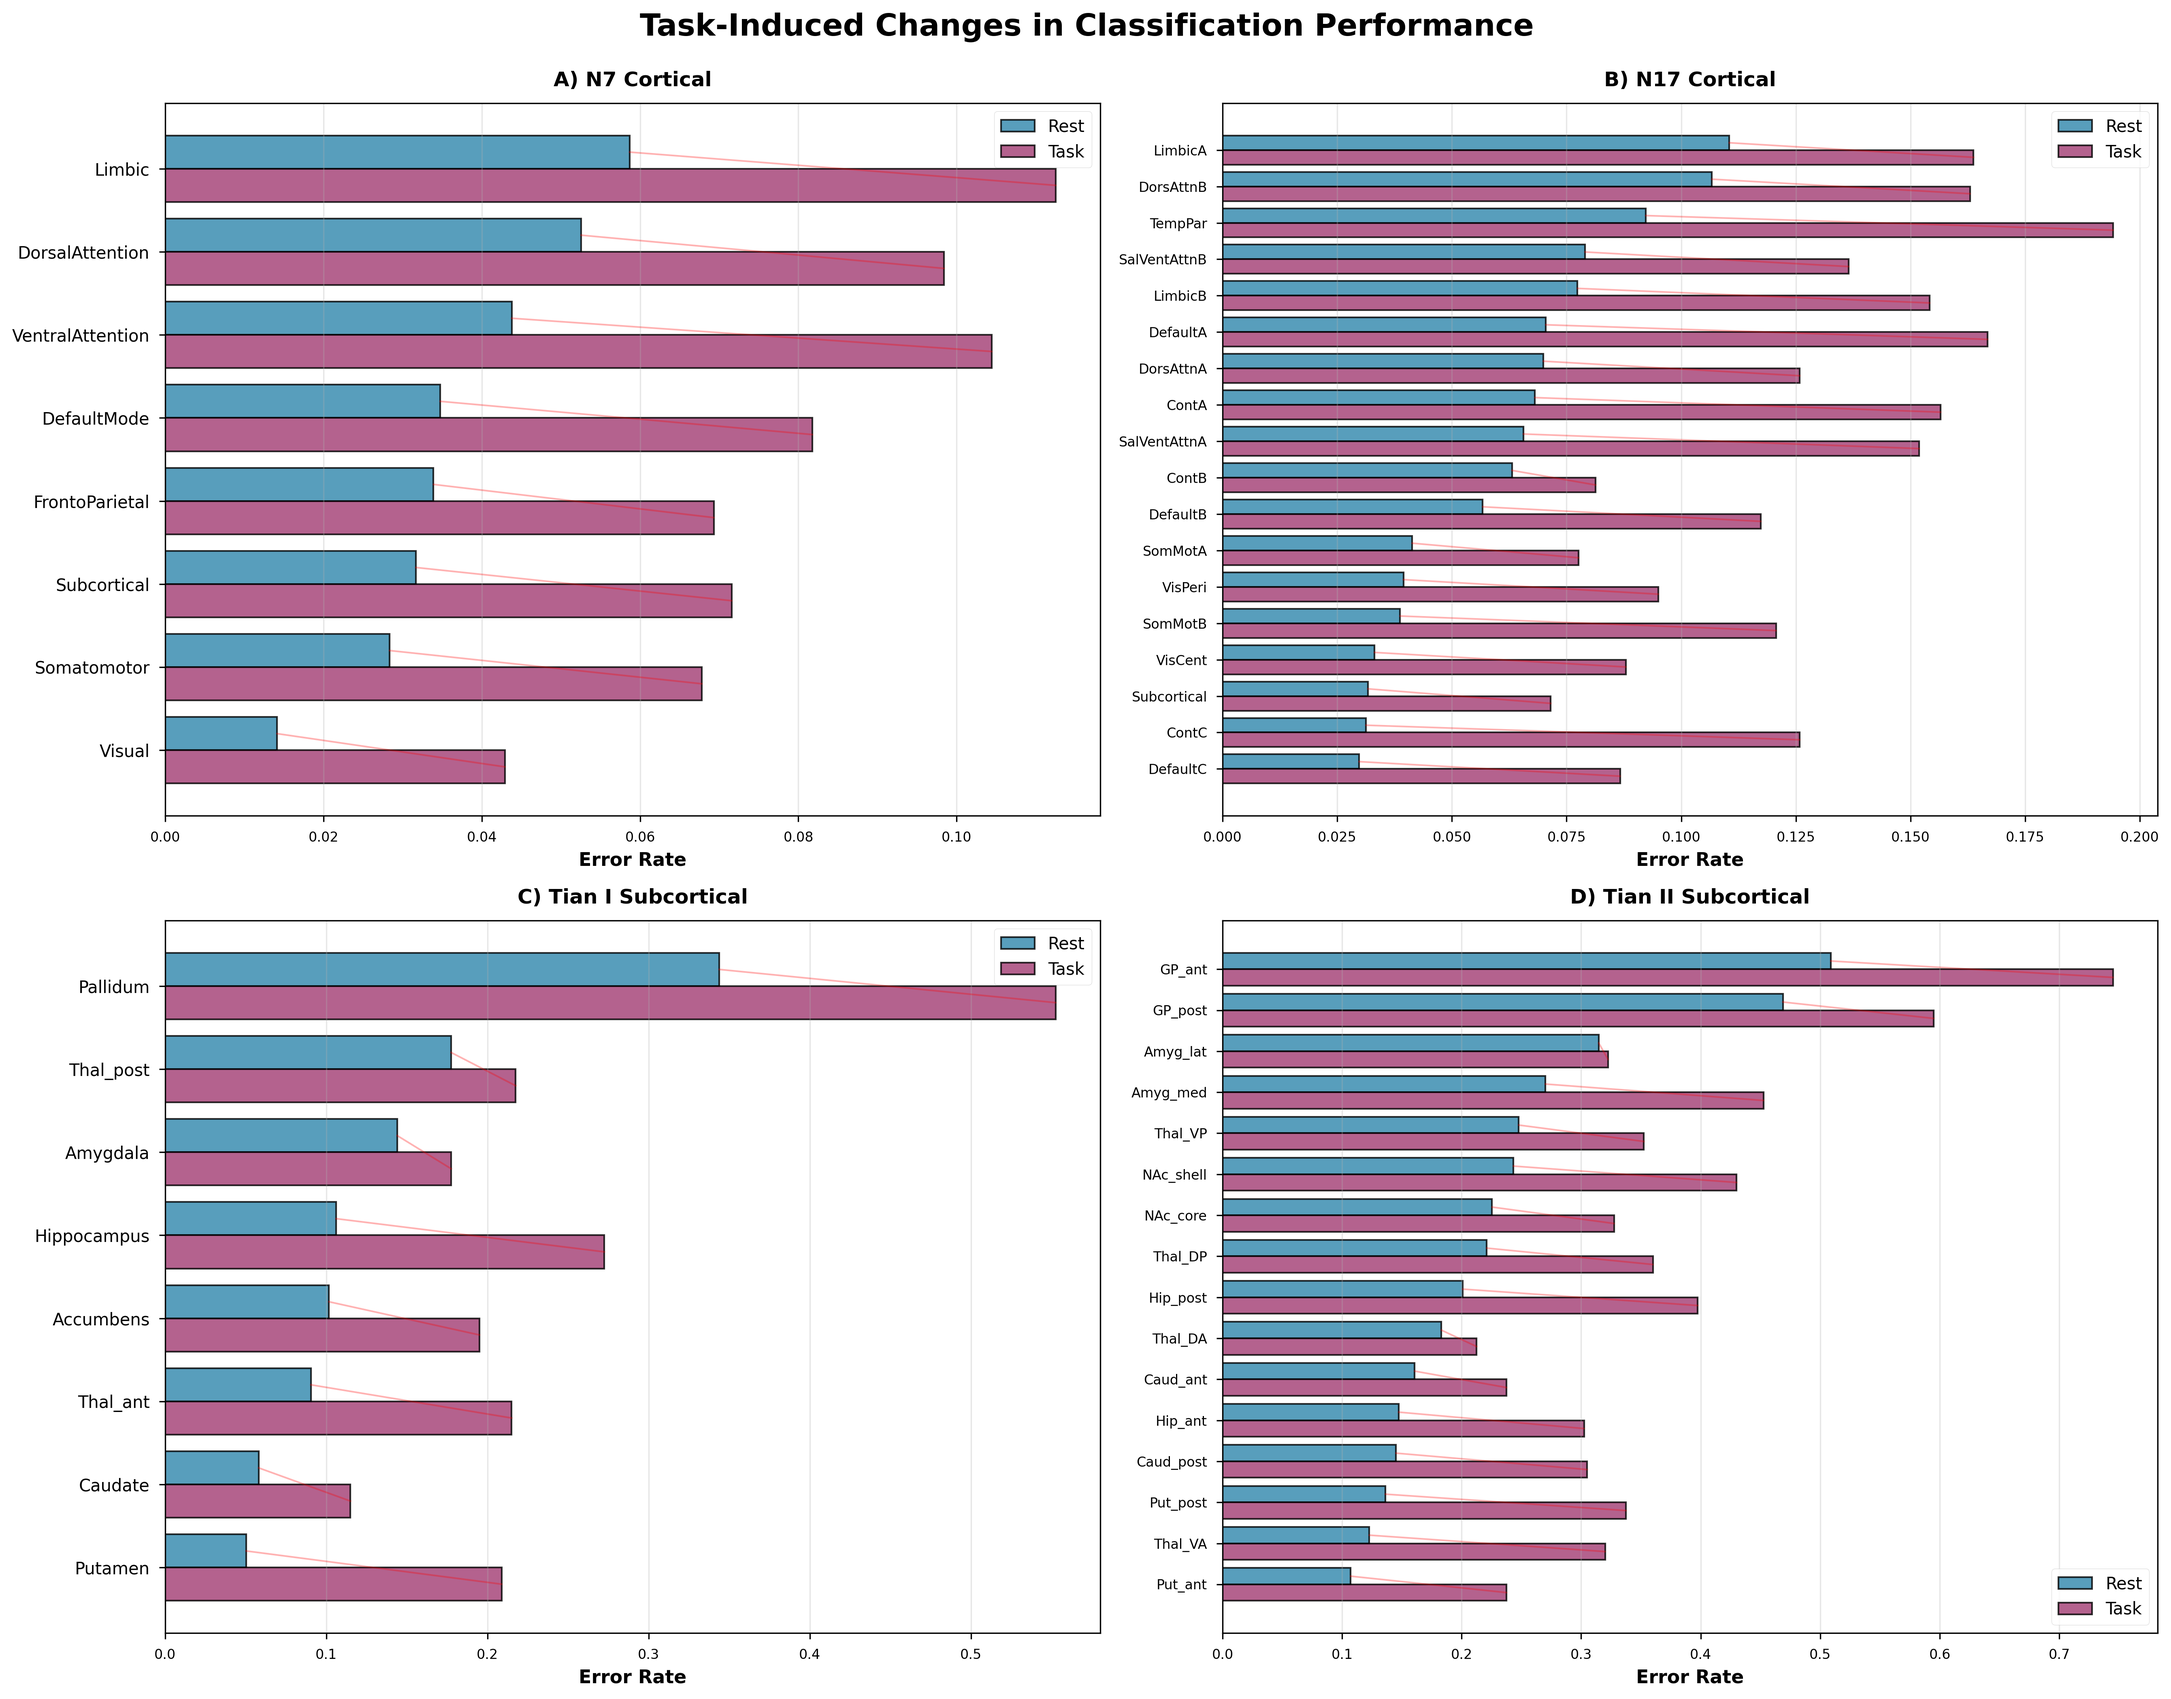
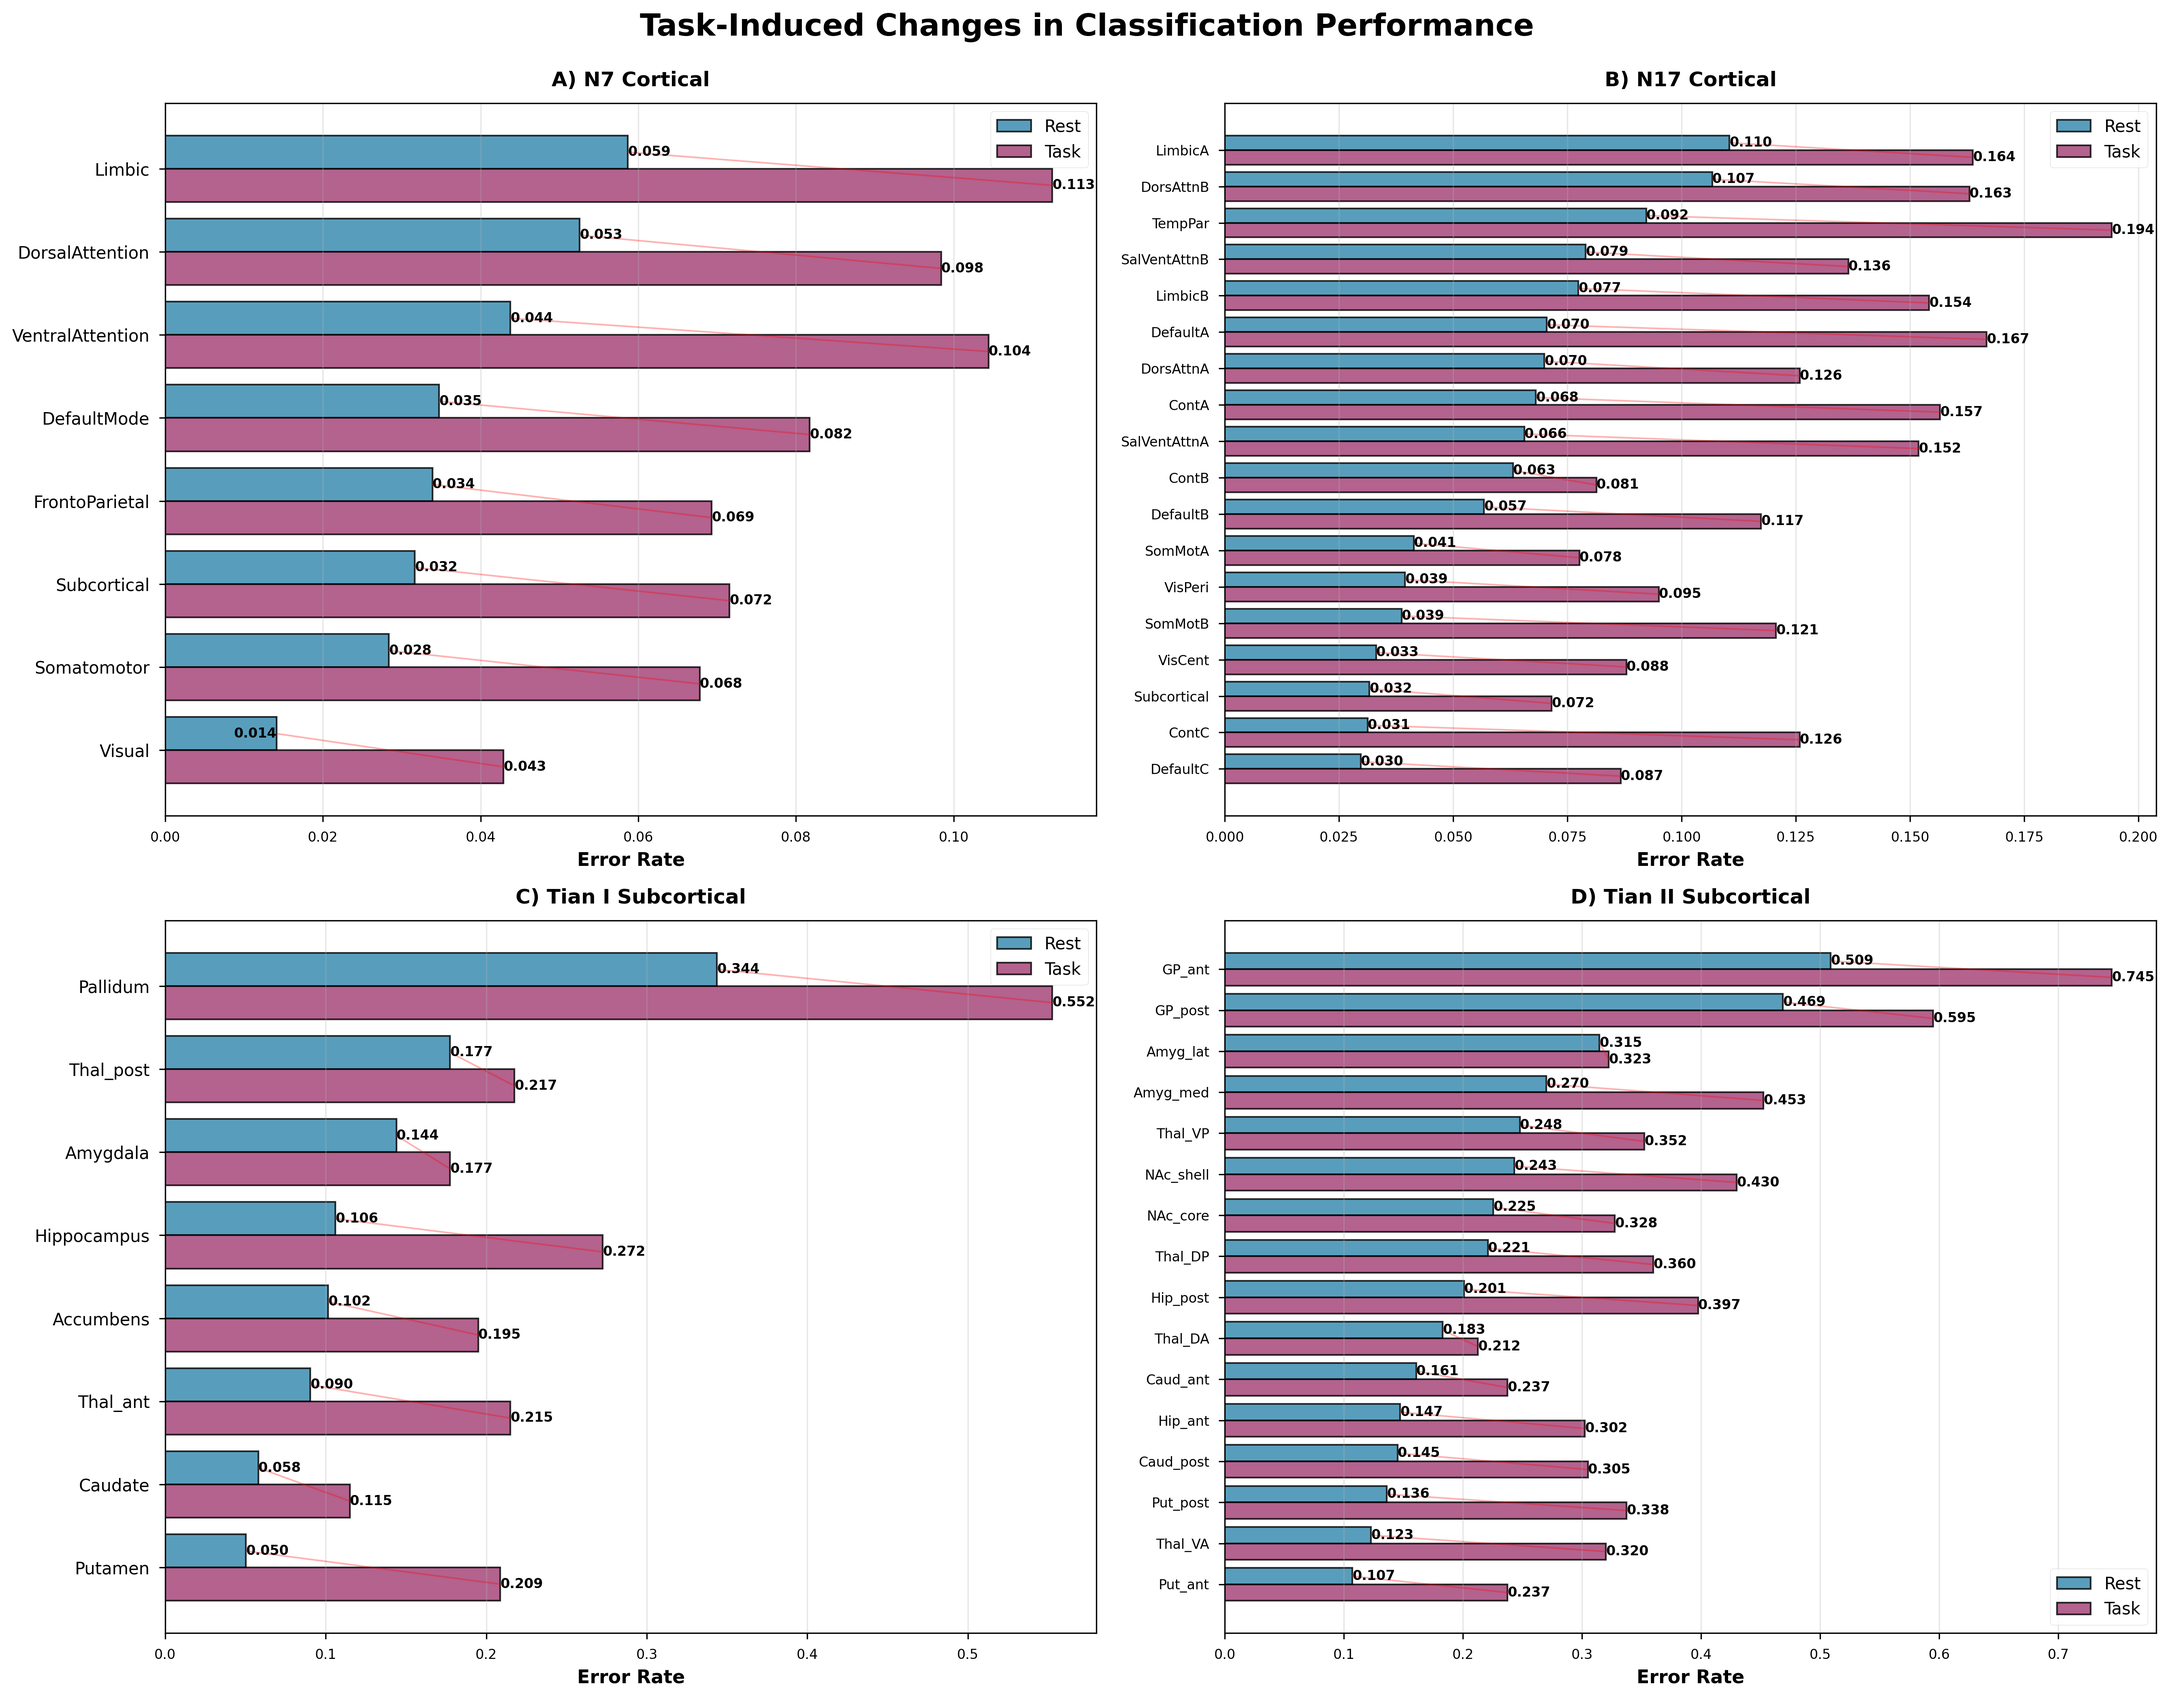
viz- atlas comparison fig4 annotated

diff --git a/AdvanceAnalysis/02_atlas_comparison.py b/AdvanceAnalysis/02_atlas_comparison.py
@@ -1,7 +1,6 @@
 #!/usr/bin/env python3
 """
-Atlas Comparison Analysis - Ultra Clean Graphs
-Graphs are completely clean with no statistical annotations.
+Atlas Comparison Analysis
 All statistics are logged to console and saved in CSV tables.
 """
 
@@ -291,12 +290,11 @@ def annotate_outliers(ax, data, position, labels, n_top=3, direction='right'):
 
 
 # =============================================================================
-# FIGURE 1: RESOLUTION EFFECTS (ULTRA CLEAN)
+# FIGURE 1: RESOLUTION EFFECTS 
 # =============================================================================
 
 def plot_resolution_effects(error_data, output_path):
     """
-    Ultra clean resolution comparison - no statistical annotations on graphs.
     All statistics logged to console and saved in tables.
     """
     fig = plt.figure(figsize=(18, 12))
@@ -465,12 +463,11 @@ def plot_resolution_effects(error_data, output_path):
 
 
 # =============================================================================
-# FIGURE 2: CORTICAL VS SUBCORTICAL (ULTRA CLEAN)
+# FIGURE 2: CORTICAL VS SUBCORTICAL 
 # =============================================================================
 
 def plot_cortical_vs_subcortical(error_data, output_path):
     """
-    Ultra clean cortical vs subcortical comparison.
     No statistical annotations on graphs, full stats logged.
     """
     fig, axes = plt.subplots(2, 2, figsize=(16, 12))
@@ -530,12 +527,11 @@ def plot_cortical_vs_subcortical(error_data, output_path):
 
 
 # =============================================================================
-# FIGURE 3: TASK EFFECTS (ULTRA CLEAN)
+# FIGURE 3: TASK EFFECTS 
 # =============================================================================
 
 def plot_task_effects(error_data, output_path):
     """
-    Ultra clean task effects - no statistical annotations.
     Full paired statistics logged to console.
     """
     fig, axes = plt.subplots(2, 2, figsize=(18, 14))
@@ -575,10 +571,21 @@ def plot_task_effects(error_data, output_path):
                 # Create paired plot
                 y_pos = np.arange(len(merged))
                 
-                ax.barh(y_pos - 0.2, rest_vals, 0.4, label='Rest',
+                bars_rest = ax.barh(y_pos - 0.2, rest_vals, 0.4, label='Rest',
                        color=COLORS['rest'], alpha=0.8, edgecolor='black', linewidth=1)
-                ax.barh(y_pos + 0.2, task_vals, 0.4, label='Task',
+                bars_task = ax.barh(y_pos + 0.2, task_vals, 0.4, label='Task',
                        color=COLORS['task'], alpha=0.8, edgecolor='black', linewidth=1)
+                
+                # Add value labels on bars
+                for i, (rest_val, task_val) in enumerate(zip(rest_vals, task_vals)):
+                    # Rest value
+                    ax.text(rest_val, i - 0.2, f'{rest_val:.3f}', 
+                           va='center', ha='left' if rest_val > 0.02 else 'right',
+                           fontsize=8, fontweight='bold', color='black')
+                    # Task value
+                    ax.text(task_val, i + 0.2, f'{task_val:.3f}',
+                           va='center', ha='left' if task_val > 0.02 else 'right',
+                           fontsize=8, fontweight='bold', color='black')
                 
                 # Connect pairs with lines
                 for i, (r, t) in enumerate(zip(rest_vals, task_vals)):
@@ -720,7 +727,6 @@ def main():
     print("="*80)
     print("ATLAS COMPARISON - ULTRA CLEAN GRAPHS")
     print("="*80)
-    print("\nGraphs are completely clean with NO statistical annotations")
     print("All detailed statistics are logged below and saved in CSV tables\n")
     
     # Load data
@@ -803,9 +809,8 @@ Statistical Tables ({output_tables}):
   • resolution_statistics.csv
   • system_statistics.csv
   • task_statistics.csv
-
 {"="*80}
-Perfect: Ultra clean graphs + Complete statistics documented!
+Perfect: graphs + Complete statistics documented!
 {"="*80}
 """)
     
